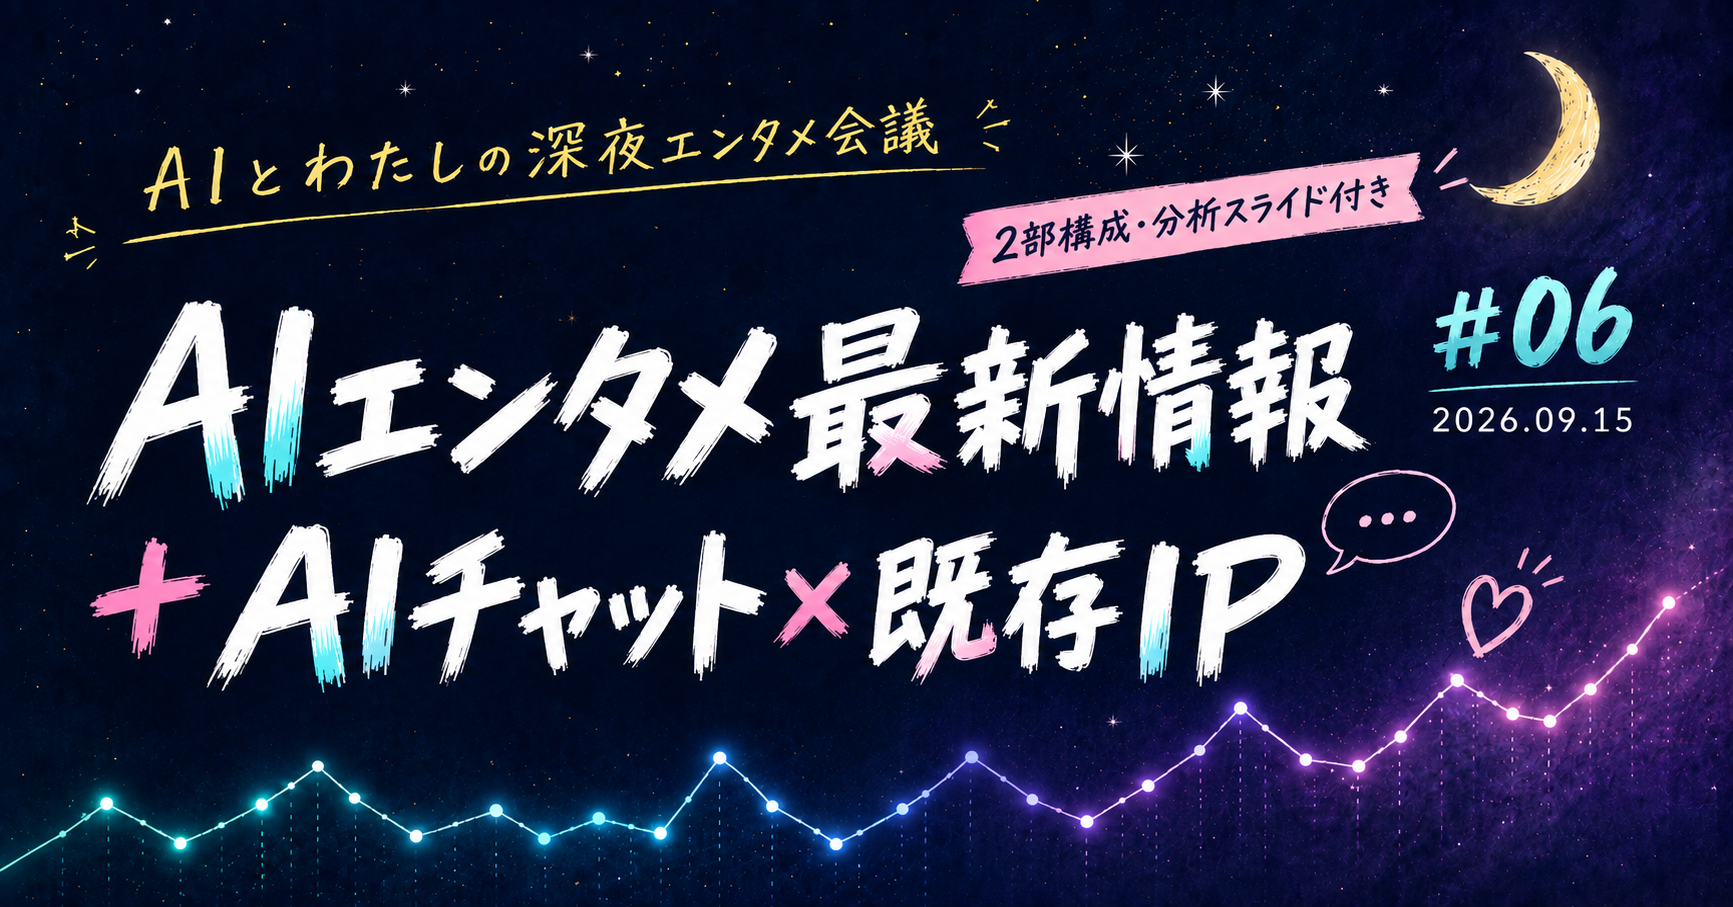
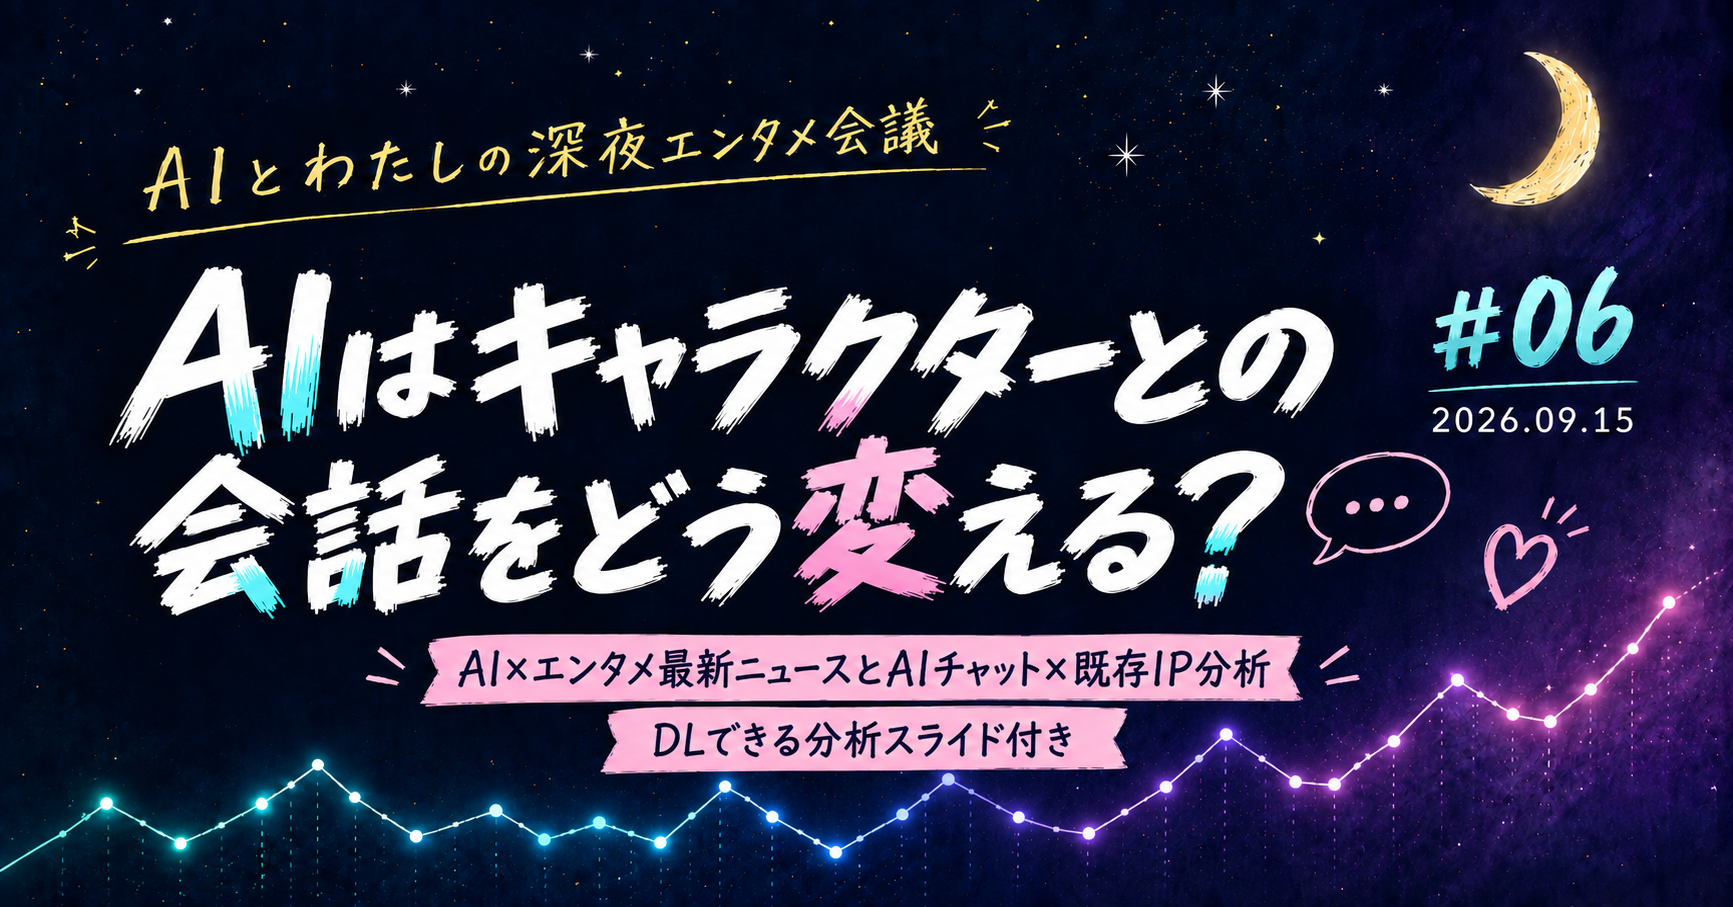
docs: AIエンタメ6号の本文とタイトル・カバーを更新

diff --git a/note/20260915_ai-entertainment-night-06.cover-prompt.md b/note/20260915_ai-entertainment-night-06.cover-prompt.md
@@ -10,13 +10,14 @@ AIとわたしの深夜エンタメ会議
 2026.09.15
 
 【記事タイトル】
-AIエンタメ最新情報＋AIチャット×既存IP
+AIはキャラクターとの会話をどう変える？
 
 【サブコピー】
-2部構成・分析スライド付き
+AI×エンタメ最新ニュースとAIチャット×既存IP分析
+DLできる分析スライド付き
 
 【画像内の文字】
-メインタイトルは「AIエンタメ最新情報＋AIチャット×既存IP」、サブコピーは「2部構成・分析スライド付き」、号数は「#06」、日付は「2026.09.15」と正確に入れる。文字化けや誤字を避け、メインタイトルが最も大きく読めるようにする。
+メインタイトルは「AIはキャラクターとの会話をどう変える？」、サブコピーは1行目を「AI×エンタメ最新ニュースとAIチャット×既存IP分析」、2行目を「DLできる分析スライド付き」として、号数は「#06」、日付は「2026.09.15」と正確に入れる。文字化けや誤字を避け、メインタイトルが最も大きく読めるようにする。
 
 【ビジュアル】
 シリーズ共通カバーの固定フォーマットをそのまま使う。夜空、星、三日月、筆文字風のタイトル、カラフルなアクセント、下部の光る折れ線、深夜の作業机という基本構成を維持する。記事内容に合わせたニュース、サービス、キャラクター、UIの追加描写やレイアウト変更はしない。

diff --git a/note/20260915_ai-entertainment-night-06.x-post.md b/note/20260915_ai-entertainment-night-06.x-post.md
@@ -1,6 +1,6 @@
 ## パターンA：見出し訴求型
 
-『AIエンタメ最新情報＋AIチャット×既存IP｜2部構成・分析スライド付き』
+『AIはキャラクターとの会話をどう変える？』
 今夜のAIとわたしの深夜エンタメ会議 #06、更新しました。
 
 前半はAI×エンタメの最新情報6件、後半は「AIチャット×既存IP」のテーマ特集です。
